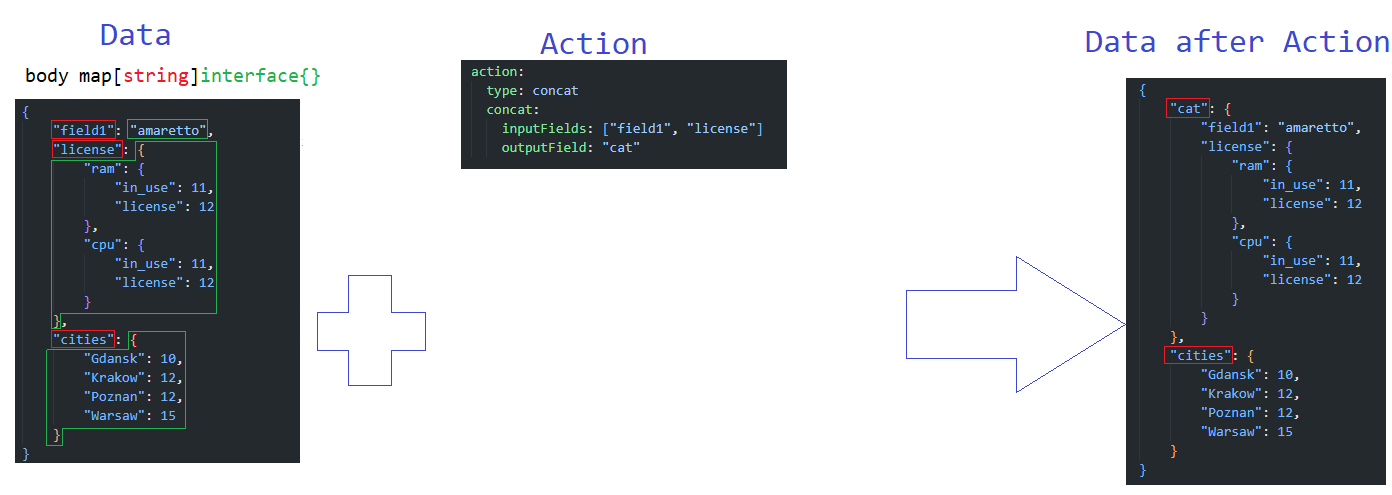
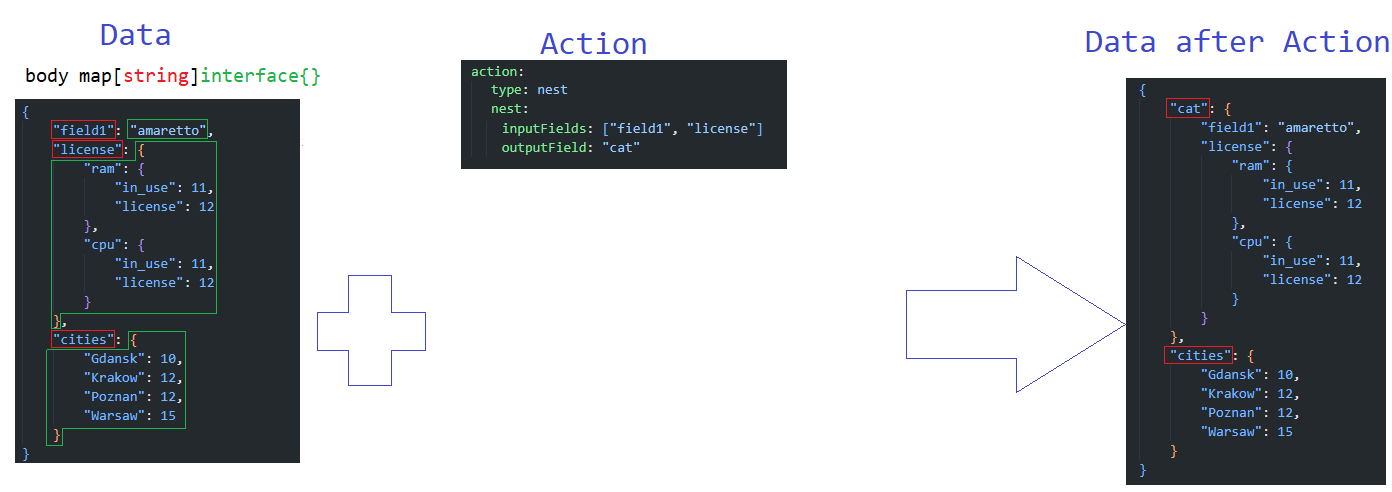
feat(actions): rename concat to nest #8

diff --git a/lupus/internal/controller/decide_controller.go b/lupus/internal/controller/decide_controller.go
@@ -126,10 +126,10 @@ func (r *DecideReconciler) Reconcile(ctx context.Context, req ctrl.Request) (ctr
 			if err = data.Set(action.Send.OutputKey, output); err != nil {
 				r.Logger.Error(err, "cannot set data field")
 			}
-		case "concat":
-			err := data.Concat(action.Concat.InputKeys, action.Concat.OutputKey)
+		case "nest":
+			err := data.Nest(action.Concat.InputKeys, action.Concat.OutputKey)
 			if err != nil {
-				r.Logger.Error(err, "cannot concat data field")
+				r.Logger.Error(err, "cannot nest data field")
 				return ctrl.Result{}, nil
 			}
 		case "remove":

diff --git a/lupus/internal/controller/util.go b/lupus/internal/controller/util.go
@@ -162,8 +162,8 @@ func (d *Data) String() string {
 	return str
 }
 
-// Concat creates a combined field with all inputKeys in it and names it outputKey
-func (d *Data) Concat(inputKeys []string, outputKey string) error {
+// Nest creates a combined field with all inputKeys in it and names it outputKey
+func (d *Data) Nest(inputKeys []string, outputKey string) error {
 	if outputKey == "*" {
 		return fmt.Errorf("`*` is not allowed as a key name for Concat")
 	}

diff --git a/docs/data-concept.md b/docs/data-concept.md
@@ -97,7 +97,7 @@ Every action has an InputField and performs something on that InputField, typica
 
 ### Send
 ![](../_img/21.png)
-### Concat
+### Nest
 ![](../_img/22.png)
 ### Remove
 ![](../_img/23.png)
@@ -120,3 +120,5 @@ Let's junxtapose each type of action:
 ![](../_img/27.png)
 
 > `Field` was renamed to `key` as it better reflects the map[string]interface{} shape of Data.
+
+> Action `concat` was renamed to `nest`. Nest is more general, because in concat action we could have single element array as input which is absurd because in such case we are not concatenating actually (but we are still nesting).

diff --git a/journal.md b/journal.md
@@ -886,3 +886,4 @@ Create a new type of Desination named `gofunc`. User should be able to modify th
 - [ ] GoFunc as Action Destination
 	- [ ] Create new type of Destination called `gofunc`.
 	- [ ] Research how it can be implemented. Does GO allow dynamic func name resolution? Will user only implement func with certain name and use this name in LupN or is he forced to modify Lupus code (more precisely Decide controller)
+	- [ ] Implement
